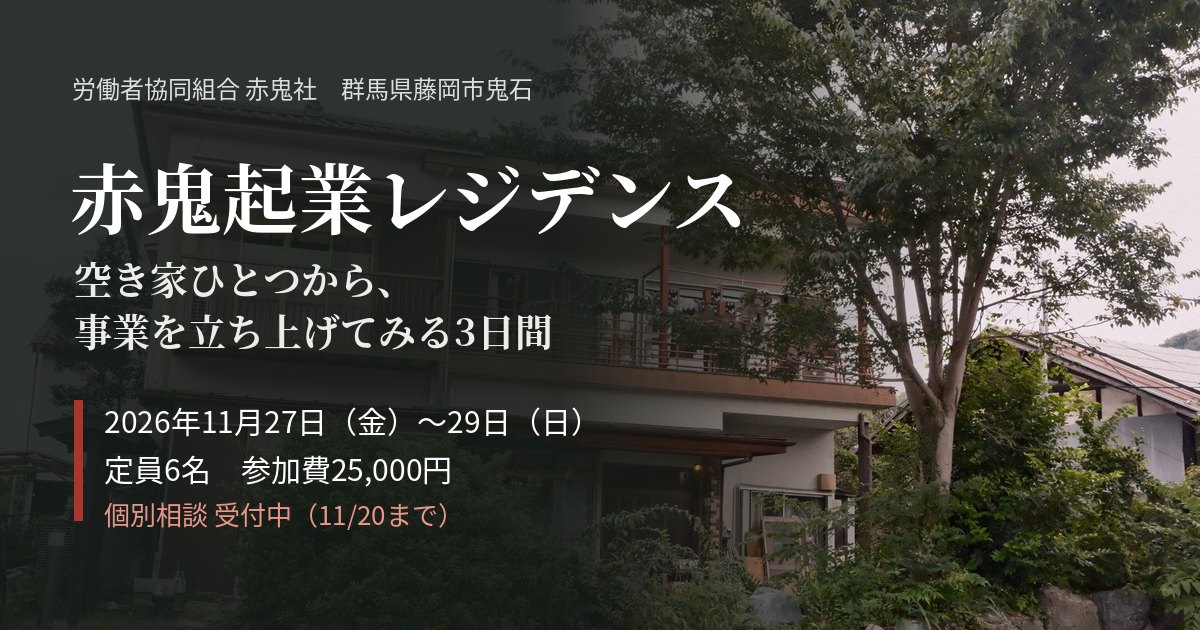
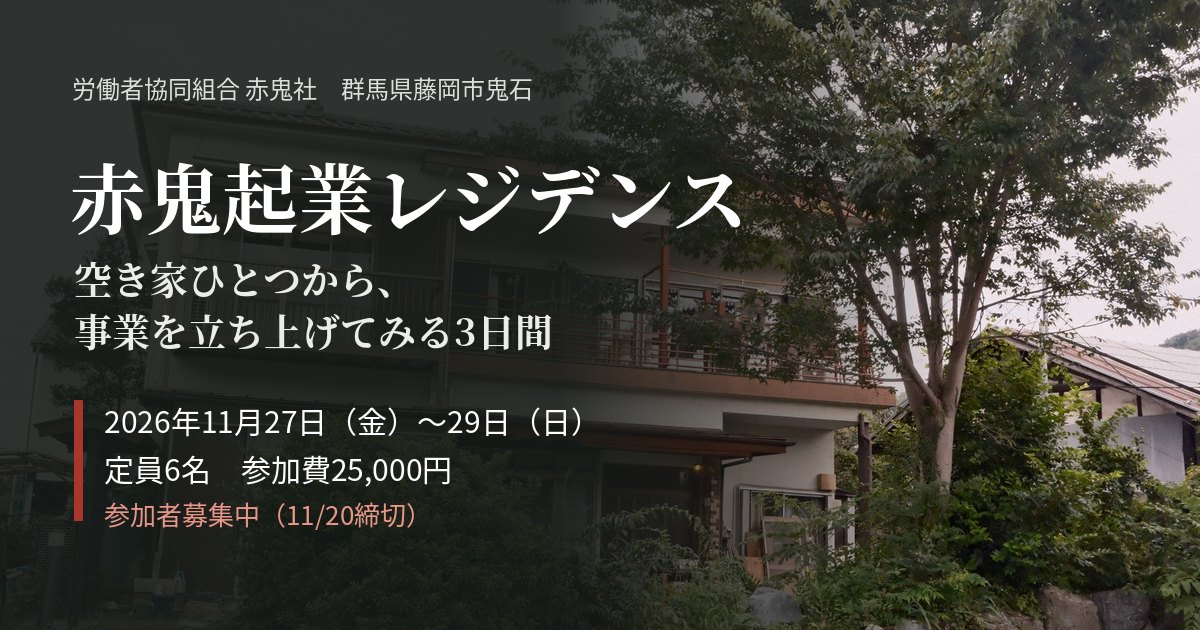
residency: 個別相談をやめ、選考制の参加申込フォームに変更／空き家の詳細は申込後に送付／top・OGPの表記も揃える
Claude-Session: https://claude.ai/code/session_015t4sFb5MerptT6PtLsYdNa

Changed region(s): [[0.0925, 0.7841, 0.37, 0.8444]]

diff --git a/residency/index.html b/residency/index.html
@@ -216,7 +216,7 @@ footer .org{color:var(--ink-2)}
   <p>鬼石（おにし）は、群馬県藤岡市の山あいにある小さな町です。東京からは車で2時間ほどです。</p>
   <p>町には、官民協働で取り組む空き家バンク制度「おにしんち」があり、30軒ほどの空き家が登録されています。今回は、その中から事業用に選んだ2軒を使います。1軒は3日間の拠点になる赤鬼ハウス、もう1軒は実際に見に行く家です。</p>
   <p>どちらかの家で、自分の事業が成り立つかを考えてもらいます。最後に、その計画を地域の人たちの前で発表して、意見をもらいます。</p>
-  <p>2軒の詳しい情報は、個別相談のときにお渡しします。</p>
+  <p>視察する空き家2軒の詳しい情報（間取りや建物の状態など）は、お申し込みいただいた方にお送りします。</p>
   <figure class="photo"><img src="img/living.jpg" alt="赤鬼ハウスの1階リビング。杉の床、革のソファ、丸い照明、庭に面した大きな窓" loading="lazy" width="1600" height="1066"><figcaption>拠点になる赤鬼ハウス。1階のリビング</figcaption></figure>
   <p class="note">主催する労働者協同組合赤鬼社は、この町で空き家を買い取ってシェアハウス「<a href="/house/">赤鬼ハウス</a>」として再生し、地域の祭りの運営にも関わっています。3日間の拠点も、DIYの現場も、その赤鬼ハウスです。</p>
   <figure class="photo" style="margin-top:20px;"><div class="pair"><img src="img/diy-grinder.jpg" alt="2階のバルコニーで、錆びた手すりをグラインダーで磨く人" loading="lazy"><img src="img/diy-balcony.jpg" alt="塗り直したオレンジの手すりのバルコニーで作業する人たち" loading="lazy"></div><figcaption>錆びた手すりを磨き、塗り直したときの様子</figcaption></figure>
@@ -291,7 +291,7 @@ footer .org{color:var(--ink-2)}
     <dt>費用の目安</dt>
     <dd>参加費と宿泊費で35,000円<br>食費は1食1,000円程度（3日間で6食、約6,000円）<br>このほか、神保原駅までの交通費がかかります</dd>
     <dt>お申込み</dt>
-    <dd>まず個別に30分ほどお話しさせてください。そのうえでお申し込みいただきます</dd>
+    <dd>下のフォームからお申し込みください。いただいた内容をもとに選考し、参加が決まった方にお支払い方法と当日のご案内をお送りします<br>締切は11月20日（金）です</dd>
     <dt>主催</dt>
     <dd>労働者協同組合赤鬼社<br>運営協力：藤岡市鬼石総合支所／鬼石コミンカコナイカ</dd>
     <dt>備考</dt>
@@ -310,6 +310,8 @@ footer .org{color:var(--ink-2)}
     <dd>大丈夫です。家と町を実際に見て、人の話を聞きながら、3日間で一緒に考えていきます。</dd>
     <dt>一人で参加しても大丈夫ですか</dt>
     <dd>はい。一人での参加を前提にしています。</dd>
+    <dt>選考はありますか</dt>
+    <dd>はい。定員が6名のため、お申し込みの内容を拝見して参加いただく方を決めます。今回参加いただけなかった方には、2027年1月の第2回をご案内します。</dd>
     <dt>キャンセルした場合はどうなりますか</dt>
     <dd>参加費は、11月22日（日）までのキャンセルなら全額お返しします。11月23日〜25日は半額、前日と当日のキャンセル、連絡のない不参加は全額をいただきます。主催者の都合で中止する場合は全額お返しします。宿泊費の扱いは、各宿の規定に従います。</dd>
   </dl>
@@ -328,16 +330,31 @@ footer .org{color:var(--ink-2)}
 
 <section>
   <div class="cta">
-    <h2>まず話してみる</h2>
-    <p>プログラムの中身や、いまお持ちの構想について、オンラインで30分ほどお話しします。参加を決めていなくても構いません。下のフォームからお申し込みいただければ、こちらから日程の候補をお送りします。</p>
+    <h2>参加を申し込む</h2>
+    <p>下のフォームからお申し込みください。お申し込みいただいた方には、視察する空き家2軒の詳しい情報をお送りします。そのうえで内容を拝見して選考し、結果をメールでご連絡します。</p>
     <form id="apply" class="apply" action="https://formspree.io/f/mbdebeel" method="POST">
-      <input type="hidden" name="_subject" value="【赤鬼起業レジデンス】個別相談の申込">
-      <input type="hidden" name="種別" value="赤鬼起業レジデンス 個別相談">
+      <input type="hidden" name="_subject" value="【赤鬼起業レジデンス】参加申込">
+      <input type="hidden" name="種別" value="赤鬼起業レジデンス 参加申込">
       <label>お名前<span class="req">必須</span><input type="text" name="name" autocomplete="name" required></label>
       <label>メールアドレス<span class="req">必須</span><input type="email" name="email" autocomplete="email" required></label>
-      <label>電話番号<span class="opt">任意</span><input type="tel" name="電話番号" autocomplete="tel"></label>
-      <label>お住まいの地域<span class="opt">任意</span><input type="text" name="お住まいの地域" placeholder="例：東京都世田谷区"></label>
-      <label>相談の希望日時<span class="req">必須</span><textarea name="希望日時" rows="3" required placeholder="例：平日20時以降、土曜の午前など。いくつか書いていただければ、こちらから候補をお送りします"></textarea></label>
+      <label>電話番号<span class="req">必須</span><input type="tel" name="電話番号" autocomplete="tel" required></label>
+      <label>お住まいの地域<span class="req">必須</span><input type="text" name="お住まいの地域" required placeholder="例：東京都世田谷区"></label>
+      <label>ご職業・お仕事の内容<span class="opt">任意</span><input type="text" name="職業" placeholder="例：メーカー勤務（企画職）、個人事業主（デザイン）など"></label>
+      <label>宿泊の希望<span class="req">必須</span>
+        <select name="宿泊" required>
+          <option value="">選んでください</option>
+          <option>2泊（11/27・28）</option>
+          <option>1泊のみ</option>
+          <option>宿泊は不要</option>
+        </select>
+      </label>
+      <label>神保原駅からの送迎<span class="req">必須</span>
+        <select name="送迎" required>
+          <option value="">選んでください</option>
+          <option>希望する</option>
+          <option>自分の車で行く</option>
+        </select>
+      </label>
       <label>このプログラムを知ったきっかけ<span class="opt">任意</span>
         <select name="きっかけ">
           <option value="">選んでください</option>
@@ -349,13 +366,13 @@ footer .org{color:var(--ink-2)}
           <option>その他</option>
         </select>
       </label>
-      <label>いま考えていること、聞いてみたいこと<span class="opt">任意</span><textarea name="message" rows="4" placeholder="まだ何も決まっていなくても大丈夫です"></textarea></label>
-      <p class="privacy">いただいた情報は、個別相談とこのプログラムのご連絡にのみ使います。</p>
-      <button type="submit" class="btn">個別相談を申し込む</button>
+      <label>このプログラムで考えてみたいこと<span class="req">必須</span><textarea name="message" rows="5" required placeholder="やってみたいこと、気になっていること、鬼石に来てみたい理由など。まだ形になっていなくても大丈夫です"></textarea></label>
+      <p class="privacy">いただいた情報は、選考とこのプログラムのご連絡にのみ使います。</p>
+      <button type="submit" class="btn">参加を申し込む</button>
       <p id="apply-status" class="status" role="status" aria-live="polite"></p>
     </form>
-    <p class="alt">フォームがうまく送れない場合は、<a href="mailto:furuya@akaonisya.jp?subject=%E8%B5%A4%E9%AC%BC%E8%B5%B7%E6%A5%AD%E3%83%AC%E3%82%B8%E3%83%87%E3%83%B3%E3%82%B9%E3%81%AE%E5%80%8B%E5%88%A5%E7%9B%B8%E8%AB%87%E3%81%AB%E3%81%A4%E3%81%84%E3%81%A6">furuya@akaonisya.jp</a> 宛に「個別相談希望」とだけ送ってください。お電話（<a href="tel:08039322241">080-3932-2241</a>）でも受け付けます。</p>
-    <p class="deadline">個別相談の受付は11月20日（金）まで。定員に達し次第、締め切ります。</p>
+    <p class="alt">フォームがうまく送れない場合は、<a href="mailto:furuya@akaonisya.jp?subject=%E8%B5%A4%E9%AC%BC%E8%B5%B7%E6%A5%AD%E3%83%AC%E3%82%B8%E3%83%87%E3%83%B3%E3%82%B9%E3%81%AE%E5%8F%82%E5%8A%A0%E7%94%B3%E8%BE%BC">furuya@akaonisya.jp</a> 宛にご連絡ください。申し込む前に話を聞いてみたい方も、メールかお電話（<a href="tel:08039322241">080-3932-2241</a>）でお気軽にどうぞ。</p>
+    <p class="deadline">締切は11月20日（金）。お申し込みは届いた順に選考し、お申し込みから3日以内を目安に結果をご連絡します。定員に達した時点で受付を終了します。</p>
   </div>
 </section>
 
@@ -383,7 +400,7 @@ footer .org{color:var(--ink-2)}
     var b=f.querySelector('button'); b.disabled=true; st.textContent='送信しています…';
     fetch(f.action,{method:'POST',body:new FormData(f),headers:{'Accept':'application/json'}})
       .then(function(r){
-        if(r.ok){f.reset();st.textContent='受け付けました。こちらから日程の候補をメールでお送りします。';}
+        if(r.ok){f.reset();st.textContent='お申し込みを受け付けました。視察する空き家の詳しい情報を、メールでお送りします。';}
         else{st.textContent='送信できませんでした。お手数ですが、下のメールアドレスかお電話でご連絡ください。';}
       })
       .catch(function(){st.textContent='送信できませんでした。お手数ですが、下のメールアドレスかお電話でご連絡ください。';})

diff --git a/index.html b/index.html
@@ -562,7 +562,7 @@
       </div>
     </div>
     <a href="/residency/" class="residency-cta">詳しく見る</a>
-    <p style="margin-top:20px; font-size:14px;"><a href="/residency/#apply" style="color:inherit;">個別相談（オンライン30分）を申し込む</a><br><span style="opacity:.7; font-size:13px;">個別相談の受付は11月20日（金）まで</span></p>
+    <p style="margin-top:20px; font-size:14px;"><a href="/residency/#apply" style="color:inherit;">参加を申し込む</a><br><span style="opacity:.7; font-size:13px;">申込締切は11月20日（金）</span></p>
   </div>
   <div class="residency-visual">
     <div class="residency-visual-label">Akaoni Residency 2026</div>
@@ -698,7 +698,7 @@
       <div class="news-date">2026.10</div>
       <div class="news-title-text">
         <a href="/residency/" style="color:inherit;">赤鬼起業レジデンス 第1回 参加者募集</a>
-        <small>空き家ひとつから、事業を立ち上げてみる3日間。11月27日〜29日、定員6名。個別相談は11月20日まで受け付けています。</small>
+        <small>空き家ひとつから、事業を立ち上げてみる3日間。11月27日〜29日、定員6名。申込は11月20日まで受け付けています。</small>
       </div>
       <div class="news-tag">Recruit</div>
     </div>
